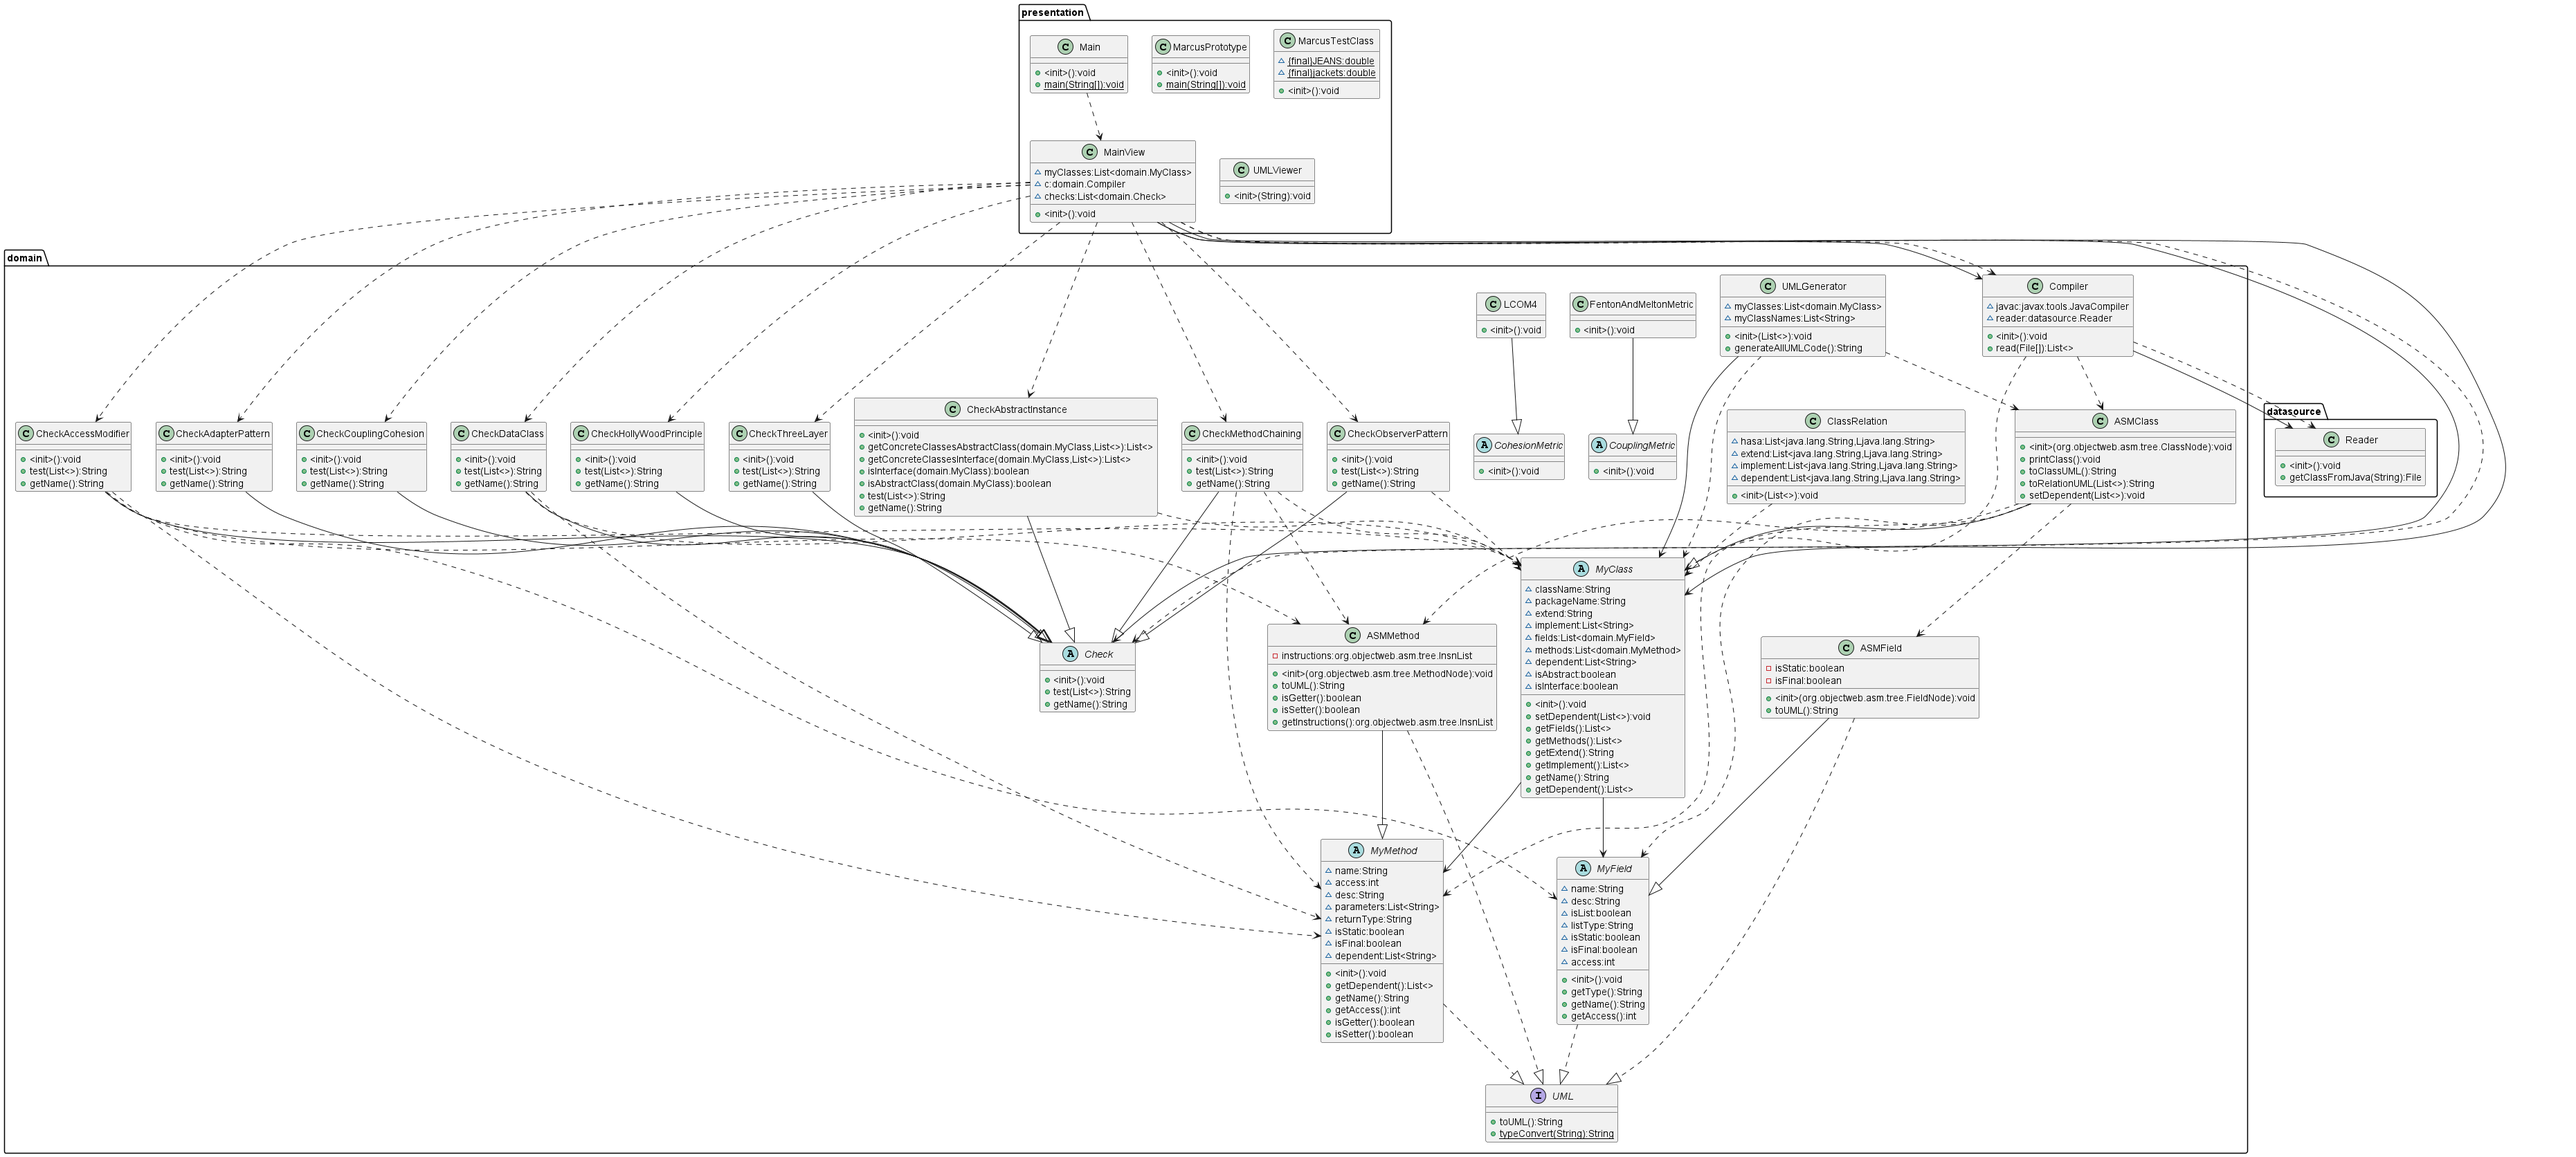
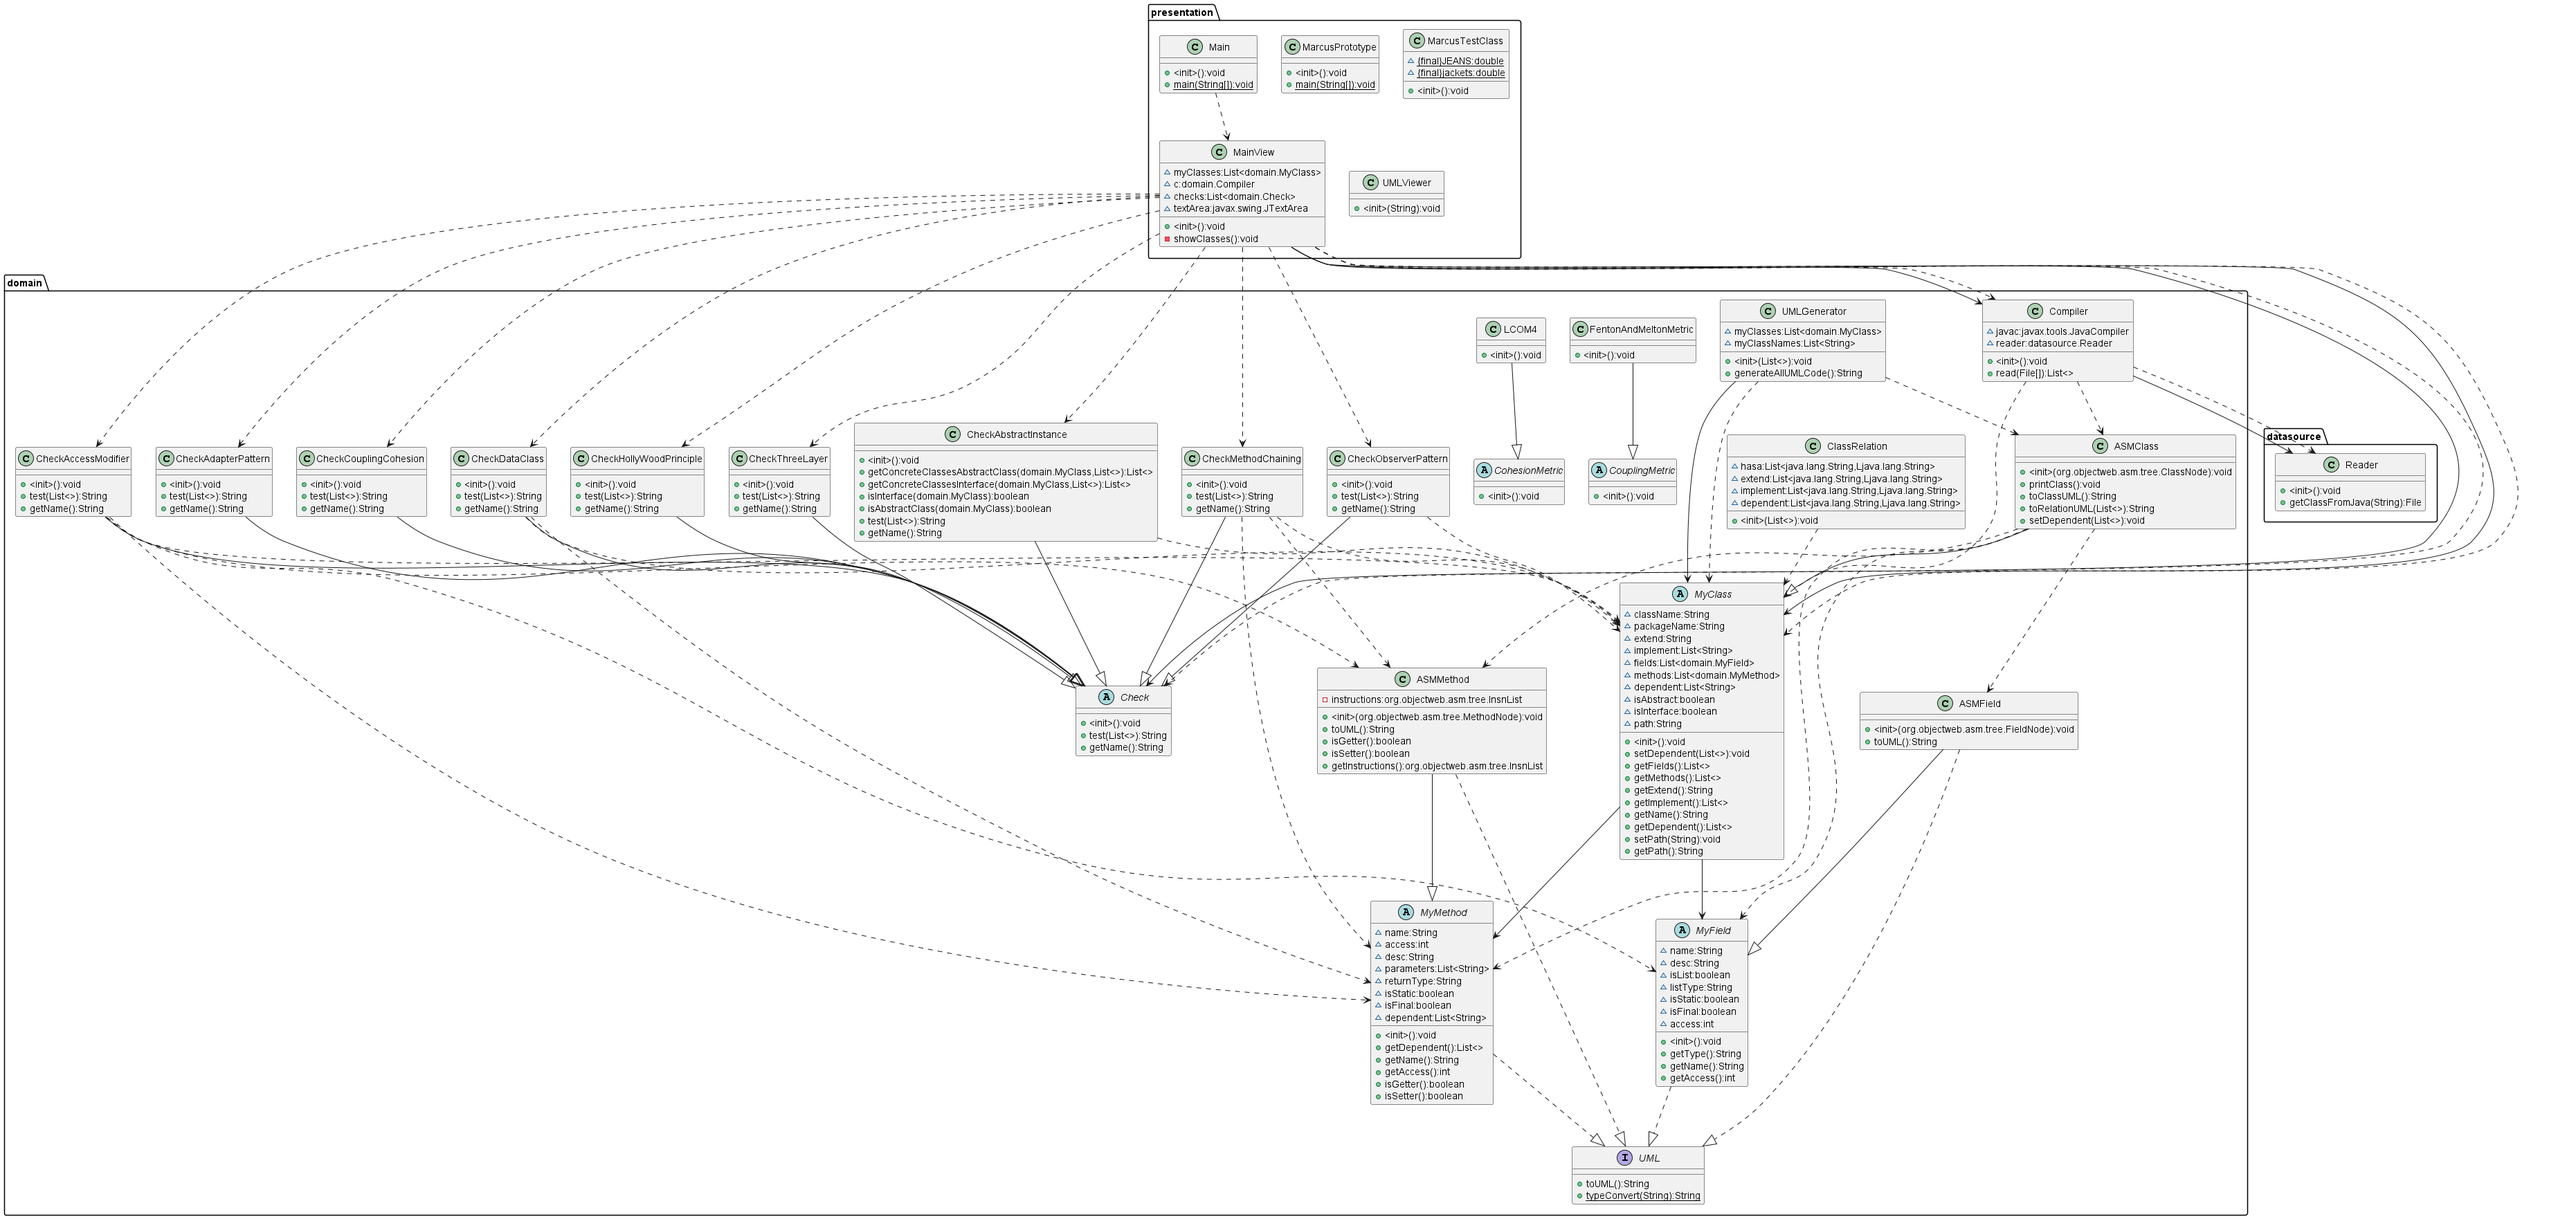
update checks
Update checks, viewer layout, some fields or methods in ASM

diff --git a/src/main/java/presentation/MainView.java b/src/main/java/presentation/MainView.java
@@ -37,7 +37,7 @@ public class MainView {
 		JFrame frame=new JFrame();
 		frame.setTitle("linter");
 		frame.setSize(1440,810);
-		frame.setDefaultCloseOperation(frame.EXIT_ON_CLOSE);
+		frame.setDefaultCloseOperation(WindowConstants.EXIT_ON_CLOSE);
 		JPanel p1=new JPanel();
 		frame.add(p1,BorderLayout.EAST);
 		JPanel p2=new JPanel();
@@ -55,8 +55,8 @@ public class MainView {
 		JLabel l1=new JLabel("please import java files");
 		p1.add(l1);
 		
-		JButton b1=new JButton("import java files");
-		b1.addActionListener(new ActionListener() {
+		JButton b0=new JButton("import java files");
+		b0.addActionListener(new ActionListener() {
 
 			@Override
 			public void actionPerformed(ActionEvent e) {
@@ -74,10 +74,10 @@ public class MainView {
 			}
 			
 		});
-		p1.add(b1);
+		p1.add(b0);
 		
-		JButton b2=new JButton("import src/test/java/domain/Test.java");
-		b2.addActionListener(new ActionListener() {
+		JButton b1=new JButton("import src/test/java/domain/Test.java");
+		b1.addActionListener(new ActionListener() {
 
 			@Override
 			public void actionPerformed(ActionEvent e) {
@@ -89,10 +89,10 @@ public class MainView {
 			}
 			
 		});
-		p1.add(b2);
+		p1.add(b1);
 		
-		JButton b2Linter=new JButton("import this project");
-		b2Linter.addActionListener(new ActionListener() {
+		JButton b2=new JButton("import this project");
+		b2.addActionListener(new ActionListener() {
 
 			@Override
 			public void actionPerformed(ActionEvent e) {
@@ -104,7 +104,7 @@ public class MainView {
 			}
 			
 		});
-		p1.add(b2Linter);
+		p1.add(b2);
 		
 		JButton b3=new JButton("print UML code in console");
 		b3.addActionListener(new ActionListener() {
@@ -127,7 +127,7 @@ public class MainView {
 		});
 		p1.add(b3);
 		
-		JButton b4=new JButton("display UML code in window");
+		JButton b4=new JButton("display UML in new window");
 		b4.addActionListener(new ActionListener() {
 
 			@Override
@@ -160,10 +160,21 @@ public class MainView {
 		p1.add(b5);
 		
 		p2.add(new JLabel("select checks:"));
+		List<JCheckBox> checkBoxes=new LinkedList<>();
+		
+		for(Check check:checks) {
+			JPanel subPanel=new JPanel();
+			JLabel boxLabel=new JLabel("    "+check.getName());
+			JCheckBox box=new JCheckBox();
+			checkBoxes.add(box);
+			subPanel.add(boxLabel);
+			subPanel.add(box);
+			p2.add(subPanel);
+		}
+		
 		p2.add(new JLabel("select all"));
 		JCheckBox all=new JCheckBox();
 		p2.add(all);
-		List<JCheckBox> checkBoxes=new LinkedList<>();
 		all.addItemListener(new ItemListener() {
 
 			@Override
@@ -175,16 +186,6 @@ public class MainView {
 			}
 			
 		});
-		
-		for(Check check:checks) {
-			JPanel subPanel=new JPanel();
-			JLabel boxLabel=new JLabel("    "+check.getName());
-			JCheckBox box=new JCheckBox();
-			checkBoxes.add(box);
-			subPanel.add(boxLabel);
-			subPanel.add(box);
-			p2.add(subPanel);
-		}
 		JButton start=new JButton("start");
 		p2.add(start);
 		start.addActionListener(new ActionListener() {
@@ -194,11 +195,12 @@ public class MainView {
 				// TODO Auto-generated method stub
 				String checkResult="";
 				if(myClasses==null) {
+					textArea.setText("please load files first");
 					return;
 				}
 				for(int i=0;i<checkBoxes.size();i++) {
 					if(checkBoxes.get(i).isSelected()) {
-						checkResult+=checks.get(i).getName()+":\n"+checks.get(i).test(myClasses)+"\n";
+						checkResult+=checks.get(i).getName()+":\n"+checks.get(i).test(myClasses)+"\n\n";
 					}
 				}
 				textArea.setText(checkResult);

diff --git a/src/main/java/domain/ASMMethod.java b/src/main/java/domain/ASMMethod.java
@@ -4,22 +4,13 @@ import java.util.LinkedList;
 import org.objectweb.asm.Opcodes;
 import org.objectweb.asm.tree.AbstractInsnNode;
 import org.objectweb.asm.tree.FieldInsnNode;
-import org.objectweb.asm.tree.FrameNode;
 import org.objectweb.asm.tree.InsnList;
-import org.objectweb.asm.tree.InsnNode;
-import org.objectweb.asm.tree.IntInsnNode;
-import org.objectweb.asm.tree.JumpInsnNode;
-import org.objectweb.asm.tree.LabelNode;
-import org.objectweb.asm.tree.LineNumberNode;
-import org.objectweb.asm.tree.MethodInsnNode;
 import org.objectweb.asm.tree.MethodNode;
 import org.objectweb.asm.tree.TypeInsnNode;
-import org.objectweb.asm.tree.VarInsnNode;
 
 public class ASMMethod extends MyMethod implements UML{
 //	private MethodNode methodNode;
 	private InsnList instructions;
-	//other classes be used
 	
 	public ASMMethod(MethodNode mn) {
 		this.access=mn.access&(Opcodes.ACC_PUBLIC+Opcodes.ACC_PROTECTED+Opcodes.ACC_PRIVATE);
@@ -32,48 +23,24 @@ public class ASMMethod extends MyMethod implements UML{
 		this.dependent=new LinkedList<>();//for all InstNode, identify type and add to it
 		this.instructions=mn.instructions;
 		
-//		System.out.println("\n"+this.name);
-//		System.out.println(this.instructions.size());
 		for(AbstractInsnNode node:this.instructions) {
-//			System.out.println(node.getClass());
-			if(node instanceof LabelNode) {
-//				System.out.println(((LabelNode)node).getLabel());
-			}else if(node instanceof LineNumberNode) {
-//				System.out.println("line "+((LineNumberNode)node).line);
-			}else if(node instanceof VarInsnNode) {
-//				System.out.println("	"+((VarInsnNode)node).var);
-			}else if(node instanceof InsnNode) {
-//				System.out.println("	"+((InsnNode)node).getType());
-			}else if(node instanceof MethodInsnNode) {
-//				System.out.println(((MethodInsnNode)node).owner+"	"+((MethodInsnNode)node).name);
-			}else if(node instanceof FieldInsnNode) {
-//				System.out.println("	"+((FieldInsnNode)node).name);
-//				System.out.println("	"+((FieldInsnNode)node).owner);
+			if(node instanceof FieldInsnNode) {
 				String m=UML.typeConvert(((FieldInsnNode)node).desc);
 				if(!this.dependent.contains(m)) {
 					this.dependent.add(m);
 				}
-			}else if(node instanceof FrameNode) {
-//				System.out.println("	"+((FrameNode)node));
-			}else if(node instanceof IntInsnNode) {
-//				System.out.println("	"+((IntInsnNode)node));
-			}else if(node instanceof JumpInsnNode) {
-//				System.out.println("	"+((JumpInsnNode)node));
 			}else if(node instanceof TypeInsnNode) {
-//				System.out.println("	"+((TypeInsnNode)node).desc);
 				String m=UML.typeConvert(((TypeInsnNode)node).desc);
 				if(!this.dependent.contains(m)) {
 					this.dependent.add(m);
 				}
-			}else {
-//				System.out.println("unrecorded node type");
 			}
 			//LabelNode					for jump purpose, usually appear before LineNumberNode
 			//LineNumberNode			line number of original code
-			//VarInsnNode
-			//InsnNode
-			//MethodInsnNode
-			//FieldInsnNode				dependency
+			//VarInsnNode				variable, type
+			//InsnNode					instruction, https://docs.oracle.com/javase/specs/jvms/se8/html/jvms-7.html
+			//MethodInsnNode			method
+			//FieldInsnNode				field, dependency
 			//FrameNode
 			//IntInsnNode
 			//JumpInsnNode
@@ -87,7 +54,6 @@ public class ASMMethod extends MyMethod implements UML{
 			//TableSwitchInsnNode
 			
 		}
-		
 		
 		//parse input argument
 		for(String s:this.desc.substring(1,i).split(";")) {

diff --git a/src/main/java/domain/CheckObserverPattern.java b/src/main/java/domain/CheckObserverPattern.java
@@ -9,14 +9,11 @@ public class CheckObserverPattern extends Check {
 		// TODO Auto-generated method stub
 		//for each two classes, if both of them call each other, suggest the observer pattern
 		String result="";
-		for(MyClass c:myClasses) {
-//			System.out.println(c.getName());
-//			for(String s:c.getDependent()) {
-//				System.out.print("	"+s+"	");
-//			}
-//			System.out.println();
-			for(MyClass c2:myClasses) {
-				if(c!=c2) {
+		for(int i=0;i<myClasses.size()-1;i++) {
+			MyClass c=myClasses.get(i);
+			for(int j=0;j<myClasses.size();j++) {
+				if(i<j) {
+					MyClass c2=myClasses.get(j);
 					if(c.getDependent().contains(c2.getName())&&c2.getDependent().contains(c.getName())) {
 						result+="class "+c.getName()+" and class "+c2.getName()+" are dependent on each other. Try to apply observer pattern\n";
 					}
@@ -24,7 +21,7 @@ public class CheckObserverPattern extends Check {
 			}
 		}
 		if(result.isBlank()) {
-			result="null";
+			result="no issue found";
 		}
 		return result;
 	}

diff --git a/src/main/java/domain/CheckAccessModifier.java b/src/main/java/domain/CheckAccessModifier.java
@@ -45,6 +45,9 @@ public class CheckAccessModifier extends Check{
 				if(m.getName().equals("<init>")) {
 					continue;
 				}
+				if(!c.getExtend().isBlank()||!c.getImplement().isEmpty()) {
+					continue;
+				}
 				if((m.getAccess()&Opcodes.ACC_PRIVATE)==0) {
 					boolean has=false;
 					for(MyClass c2:myClasses) {
@@ -71,9 +74,10 @@ public class CheckAccessModifier extends Check{
 			}
 		}
 		if(result.isBlank()) {
-			result="null";
+			result="no issue found";
+		}else {
+			result="following fields or methods can be private\n"+result;
 		}
-		
 		return result;
 	}
 

diff --git a/src/main/java/domain/CheckMethodChaining.java b/src/main/java/domain/CheckMethodChaining.java
@@ -29,7 +29,6 @@ public class CheckMethodChaining extends Check {
 //					System.out.println(node.getClass());
 					if(node instanceof LabelNode) {
 //						System.out.println();
-						i=0;
 					}else if(node instanceof LineNumberNode) {
 						i=0;
 						line=((LineNumberNode)node).line;
@@ -57,6 +56,9 @@ public class CheckMethodChaining extends Check {
 					}
 				}
 			}
+		}
+		if(result.isBlank()) {
+			result="no issue found";
 		}
 		return result;
 	}

diff --git a/src/main/java/domain/ASMField.java b/src/main/java/domain/ASMField.java
@@ -6,9 +6,6 @@ import org.objectweb.asm.tree.FieldNode;
 public class ASMField extends MyField implements UML{
 //	private FieldNode fieldNode;
 	
-	private boolean isStatic;
-	private boolean isFinal;
-	
 	public ASMField(FieldNode mf) {
 		this.access=mf.access&(Opcodes.ACC_PUBLIC+Opcodes.ACC_PROTECTED+Opcodes.ACC_PRIVATE);
 		this.isStatic=(mf.access&Opcodes.ACC_STATIC)!=0;

diff --git a/src/main/java/domain/ASMClass.java b/src/main/java/domain/ASMClass.java
@@ -10,8 +10,6 @@ import org.objectweb.asm.tree.MethodNode;
 
 public class ASMClass extends MyClass {
 //	private ClassNode classNode;
-//	List<MyField> fields;
-//	List<MyMethod> methods;
 	
 	public ASMClass(ClassNode cn) {
 //		this.classNode=cn;
